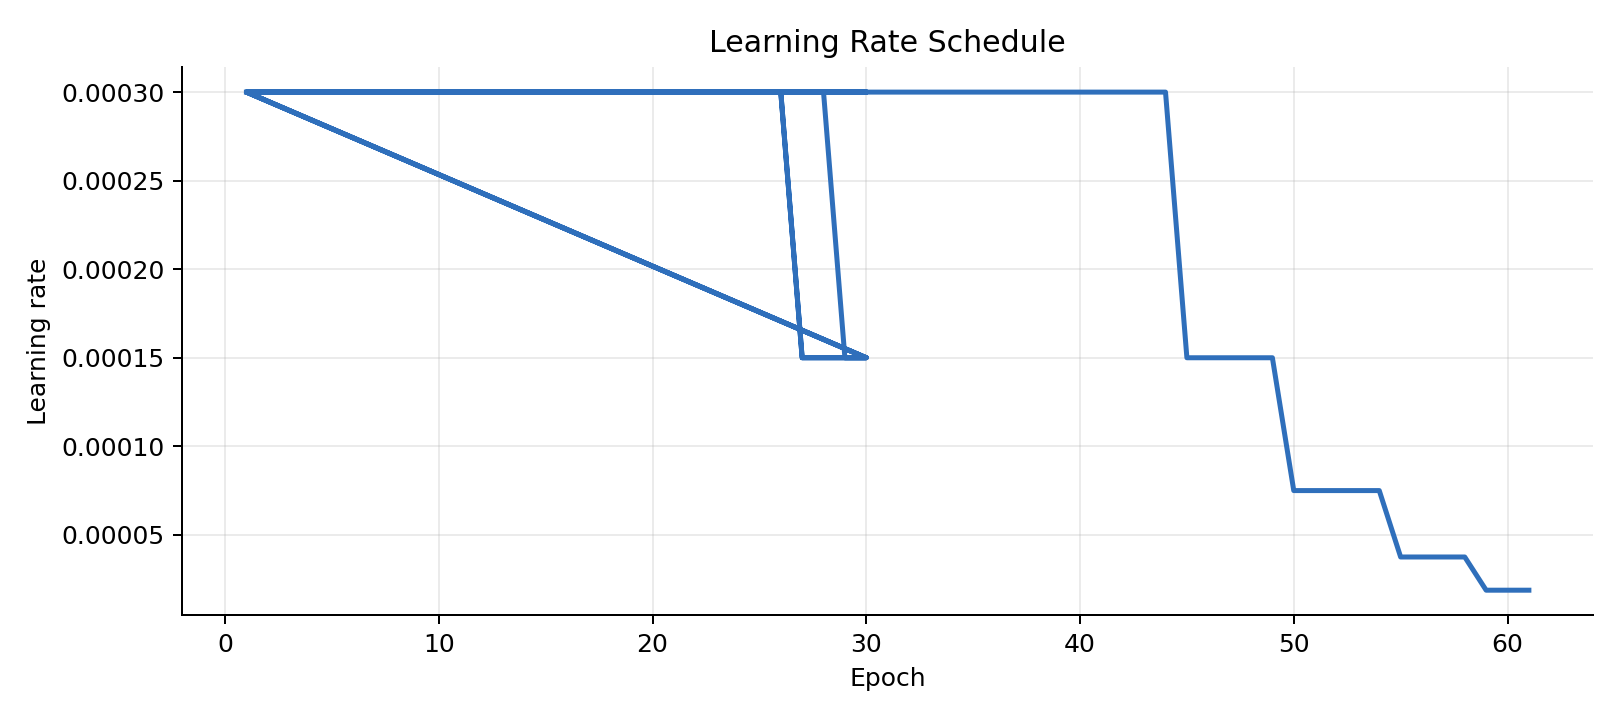
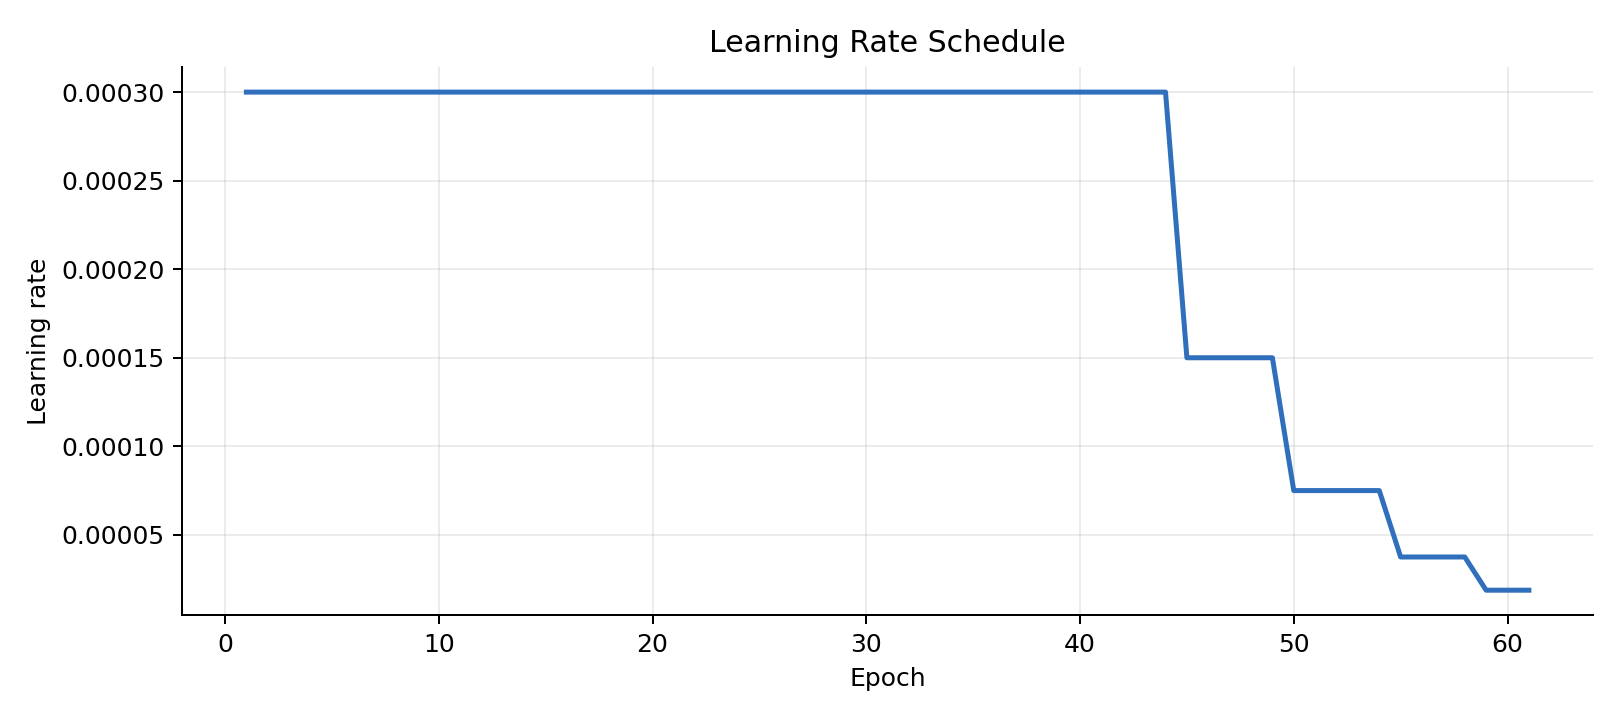
fix: 修复2.1训练学习率图并删除损失图
仅使用最终TCN训练日志绘制学习率曲线，删除重复且混合候选曲线的training_loss_history图。

diff --git a/2.0/visualize.py b/2.0/visualize.py
@@ -84,15 +84,10 @@ def plot_training_history(cfg: ExperimentConfig) -> list[Path]:
     outputs: list[Path] = []
     if cfg.training_log_csv.exists():
         log_frame = pd.read_csv(cfg.training_log_csv)
-        plt.figure(figsize=(9, 5))
-        plt.plot(log_frame["epoch"], log_frame["train_loss"], label="Train loss", linewidth=2)
-        plt.plot(log_frame["epoch"], log_frame["val_loss"], label="Validation loss", linewidth=2)
-        plt.xlabel("Epoch")
-        plt.ylabel("Huber loss")
-        plt.title("Training and Validation Loss")
-        plt.legend()
-        outputs.append(save_figure(cfg.training_vis_dir / "training_loss_history.png"))
-
+        # 阶段一和最终训练的epoch都会从1开始，学习率图只展示最终训练序列。
+        if "phase" in log_frame.columns:
+            log_frame = log_frame[log_frame["phase"] == "final_tcn"].copy()
+        log_frame = log_frame.sort_values("epoch")
         plt.figure(figsize=(9, 4))
         plt.plot(log_frame["epoch"], log_frame["learning_rate"], color="#2f6fbb", linewidth=2)
         plt.xlabel("Epoch")
